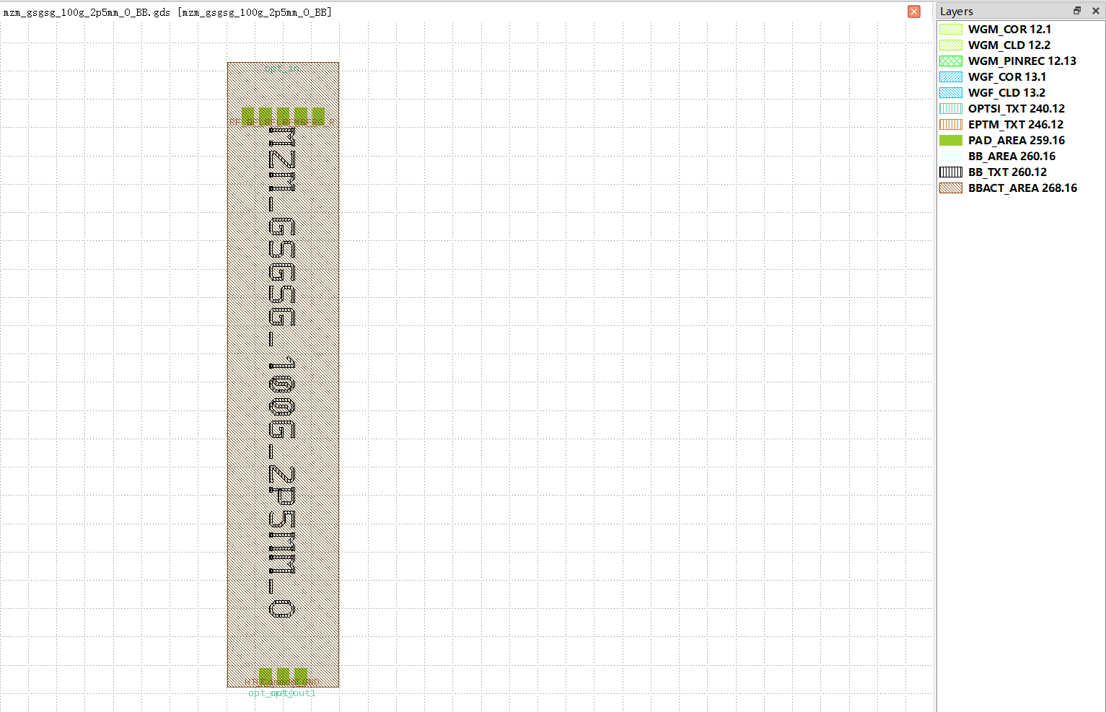
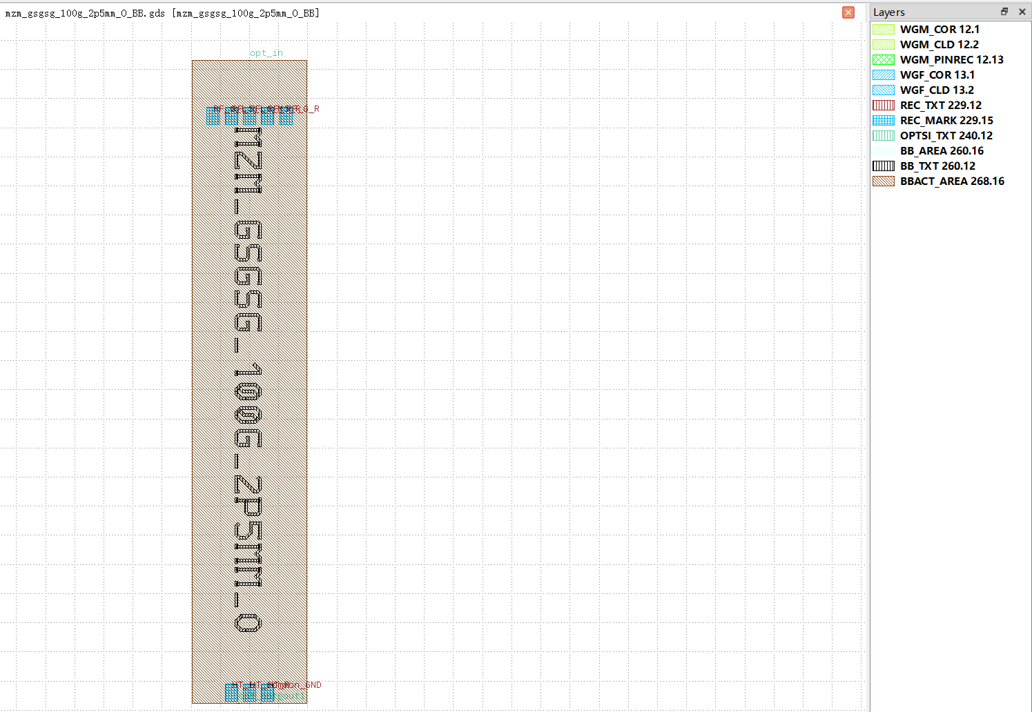
部分修改7

diff --git a/docs/source/tech/layers.rst b/docs/source/tech/layers.rst
@@ -4,7 +4,6 @@ layers.py
 The layers are auto-generated by filling the ``layers.csv`` file, ``FLYLINE_MARK`` layer is defined by **Latitudeda** for display.
 
 ::
-
     class LAYER(TECH.LAYER):
         WGS_COR = Layer(PROCESS.WGS, PURPOSE.COR, 'SOI waveguide shallow etch core')
         WGS_CLD = Layer(PROCESS.WGS, PURPOSE.CLD, 'SOI waveguide shallow etch cladding')
@@ -65,7 +64,8 @@ The layers are auto-generated by filling the ``layers.csv`` file, ``FLYLINE_MARK
         LOGO_DRW = Layer(PROCESS.LOGO, PURPOSE.DRW, 'Logo, All logos made on the wafer must use this layer')
         METAL_DUMB = Layer(PROCESS.METAL, PURPOSE.DUMB, 'Metal dummy block')
         ALL_DUMB = Layer(PROCESS.ALL, PURPOSE.DUMB, 'All layer dummy block')
-        REC_TXT = Layer(PROCESS.REC, PURPOSE.TXT, 'Text layer, not to print on wafer, use for TE/TM mode and C/O band description')
+        REC_TXT = Layer(PROCESS.REC, PURPOSE.TXT, 'Text layer, not to print on wafer')
+        REC_MARK = Layer(PROCESS.REC, PURPOSE.MARK, 'Mark layer, not to print on wafer')
         OIOGC_PORT = Layer(PROCESS.OIOGC, PURPOSE.PORT, 'Grating coupler optical port, for testing')
         OIOGC_TXT = Layer(PROCESS.OIOGC, PURPOSE.TXT, 'Grating coupler optical port recognition text, not print on wafer')
         OIOEC_PORT = Layer(PROCESS.OIOEC, PURPOSE.PORT, 'Edge coupler optical port, for testing')
@@ -78,8 +78,6 @@ The layers are auto-generated by filling the ``layers.csv`` file, ``FLYLINE_MARK
         OPTSIN_TXT = Layer(PROCESS.OPTSIN, PURPOSE.TXT, 'Pin rectangle text, for SiN routing pin recognition')
         EPTM_TXT = Layer(PROCESS.EPTM, PURPOSE.TXT, 'Pin rectangle text, for all metal layer routing pin recognition')
         DEV_AREA = Layer(PROCESS.DEV, PURPOSE.AREA, 'Device area ')
-        PAD_AREA = Layer(PROCESS.PAD, PURPOSE.AREA, 'PAD area')
-        PAD_TXT = Layer(PROCESS.PAD, PURPOSE.TXT, 'PAD label text')
         BB_AREA = Layer(PROCESS.BB, PURPOSE.AREA, 'Blackbox area')
         BB_TXT = Layer(PROCESS.BB, PURPOSE.TXT, 'Blackbox label text')
         EC_AREA = Layer(PROCESS.EC, PURPOSE.AREA, 'Marking layer, mark the EC area,The EC taper area must be covered by the EC_AREA layer')
@@ -89,6 +87,5 @@ The layers are auto-generated by filling the ``layers.csv`` file, ``FLYLINE_MARK
         BBACT_AREA = Layer(PROCESS.BBACT, PURPOSE.AREA, 'Blackbox area for SiN device device')
         FORBID_AREA = Layer(PROCESS.FORBID, PURPOSE.AREA, 'Forbid area for any drawing pattern')
         FLYLINE_MARK = Layer(PROCESS.FLYLINE, PURPOSE.MARK, 'Flyline for insufficient space in AutoLink')
-
 
 For users using layout viewers (e.g. KLayout), they can import the layer properties file ``layers.lyp`` in ``technology/generated`` file folder.
